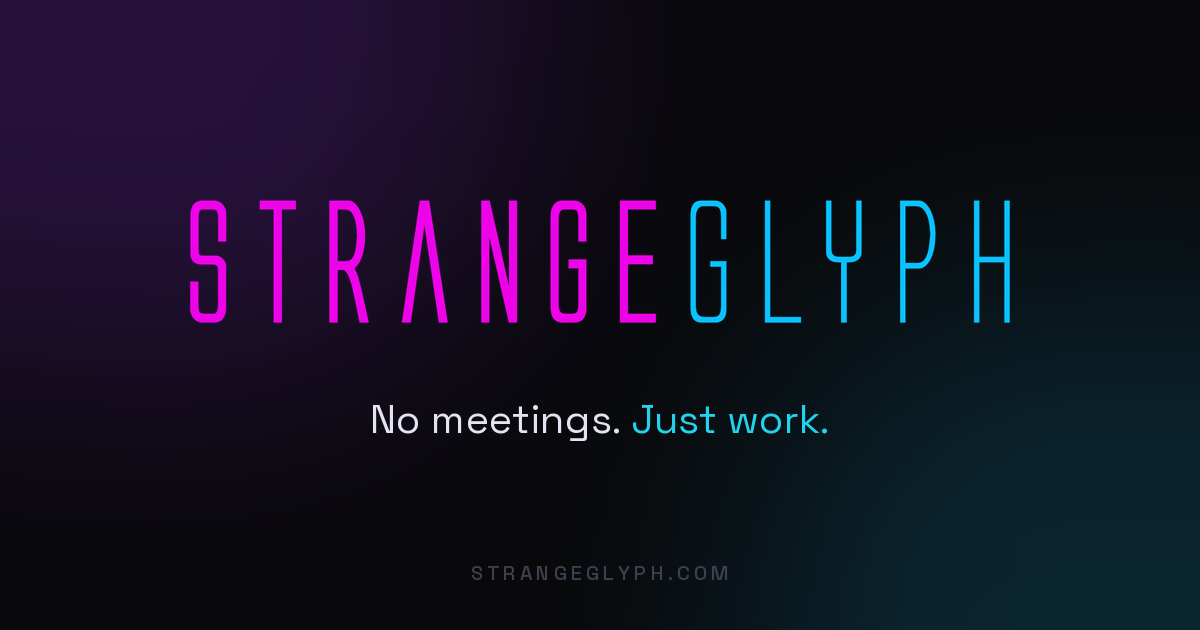
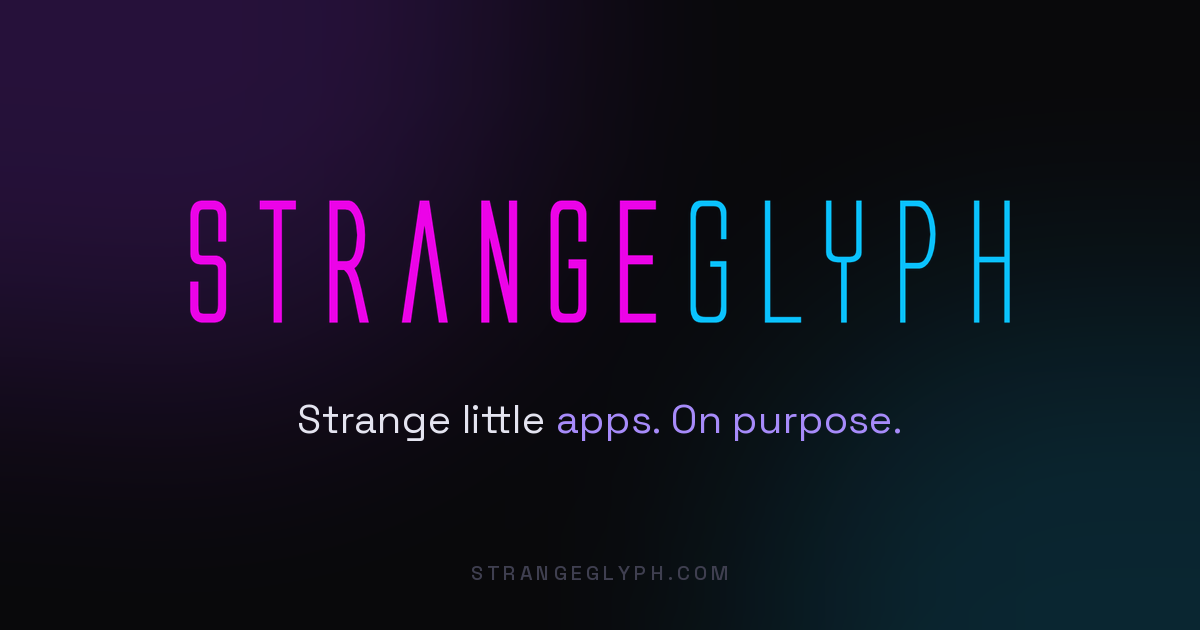
New hero: "Strange little apps. On purpose."
- Hero headline and subline now say what the apps are for
- "No meetings. Just work." moves to the opening of About
- Share image, OG and Twitter text updated to match

Claude-Session: https://claude.ai/code/session_01QYuud8yZkymEWwaEXJ9uPF

Changed region(s): [[0.2467, 0.6333, 0.74, 0.6937]]

diff --git a/index.html b/index.html
@@ -15,15 +15,15 @@
   <meta property="og:type" content="website" />
   <meta property="og:site_name" content="Strange Glyph" />
   <meta property="og:url" content="https://strangeglyph.com/" />
-  <meta property="og:title" content="Strange Glyph — No meetings. Just work." />
-  <meta property="og:description" content="An independent studio building thoughtful mobile apps for curious people." />
+  <meta property="og:title" content="Strange Glyph — Strange little apps. On purpose." />
+  <meta property="og:description" content="An independent studio building focused mobile apps for niche obsessions: the night sky, dive gear, and calm puzzles." />
   <meta property="og:image" content="https://strangeglyph.com/og-image.png" />
   <meta property="og:image:width" content="1200" />
   <meta property="og:image:height" content="630" />
-  <meta property="og:image:alt" content="Strange Glyph wordmark with the line: No meetings. Just work." />
+  <meta property="og:image:alt" content="Strange Glyph wordmark with the line: Strange little apps. On purpose." />
   <meta name="twitter:card" content="summary_large_image" />
-  <meta name="twitter:title" content="Strange Glyph — No meetings. Just work." />
-  <meta name="twitter:description" content="An independent studio building thoughtful mobile apps for curious people." />
+  <meta name="twitter:title" content="Strange Glyph — Strange little apps. On purpose." />
+  <meta name="twitter:description" content="An independent studio building focused mobile apps for niche obsessions: the night sky, dive gear, and calm puzzles." />
   <meta name="twitter:image" content="https://strangeglyph.com/og-image.png" />
   <link rel="preconnect" href="https://fonts.googleapis.com" />
   <link rel="preconnect" href="https://fonts.gstatic.com" crossorigin />
@@ -905,15 +905,14 @@
   <!-- HERO -->
   <section id="hero">
     <h1 class="display">
-      No meetings.<br />
-      <span class="accent">Just work.</span>
+      Strange little<br />
+      <span class="accent">apps. On&nbsp;purpose.</span>
     </h1>
     <div class="hero-sub-row">
       <p class="hero-desc">
-        Strange Glyph is an independent studio.
-        No roadmap by committee. No app that doesn't
-        earn its place. Just software that gets
-        the details right.
+        An independent studio building focused mobile apps
+        for niche obsessions: the night sky, dive gear,
+        and calm puzzles.
       </p>
       <div class="hero-cta">
         <a class="btn btn-primary" href="#apps">View Apps</a>
@@ -935,8 +934,8 @@
       <div>
 
         <p class="reveal">
-          Strange Glyph makes apps. Not decks. Not roadmaps.
-          Not alignment meetings. Apps.
+          No meetings. Just work. Strange Glyph makes apps.
+          Not decks. Not roadmaps. Not alignment meetings. Apps.
         </p>
         <p class="reveal d1">
           We're an independent studio, which means the person
